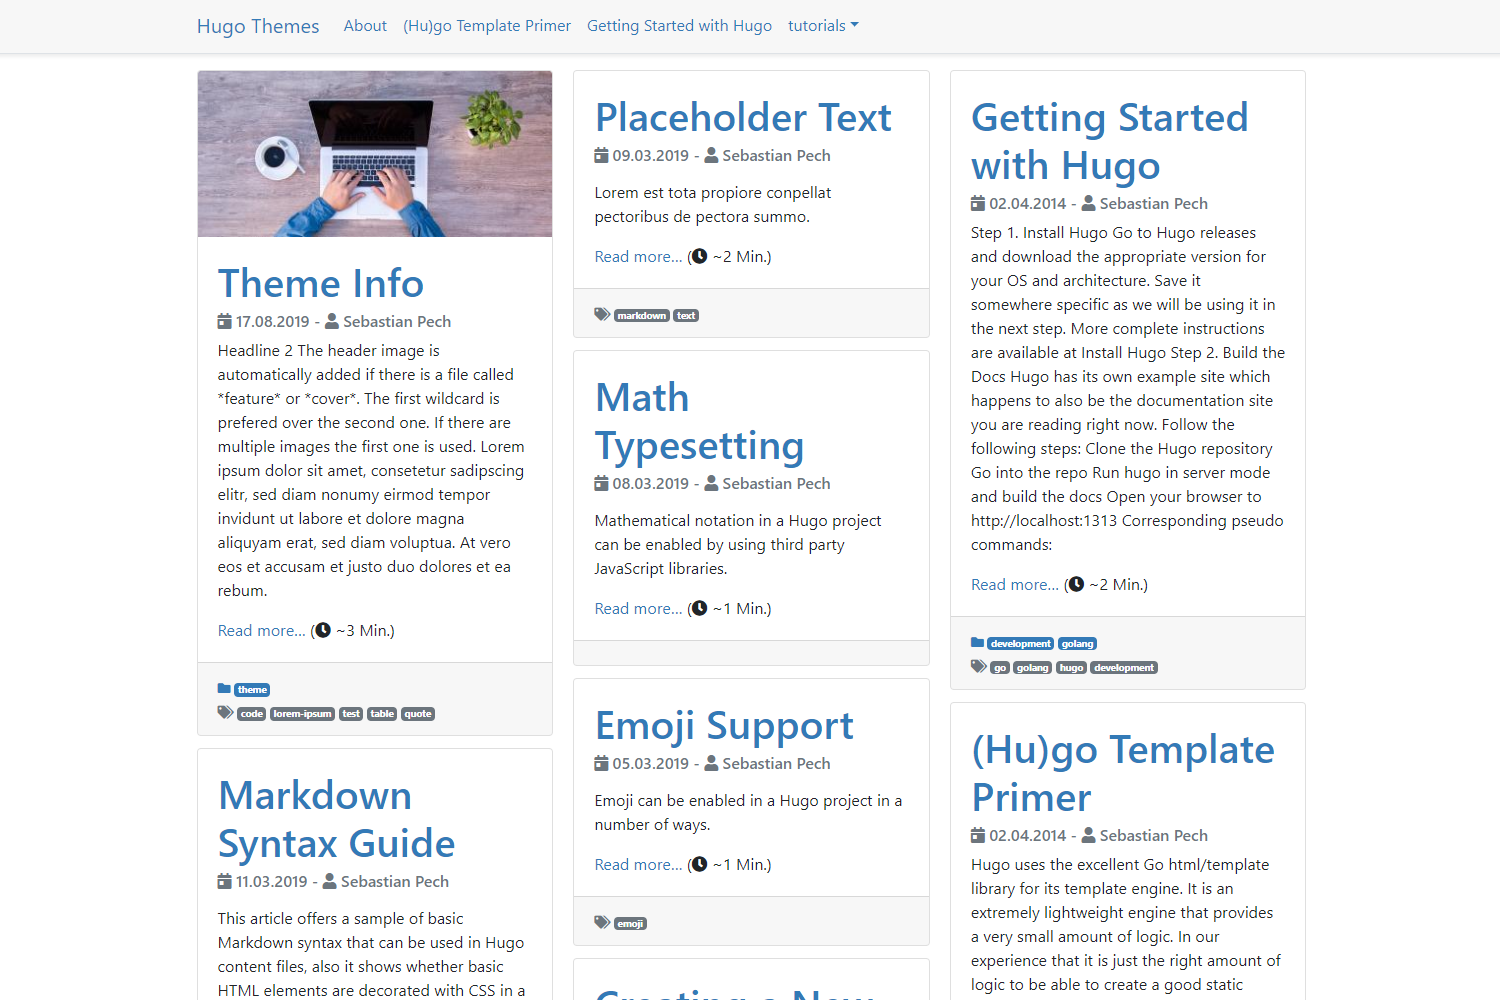
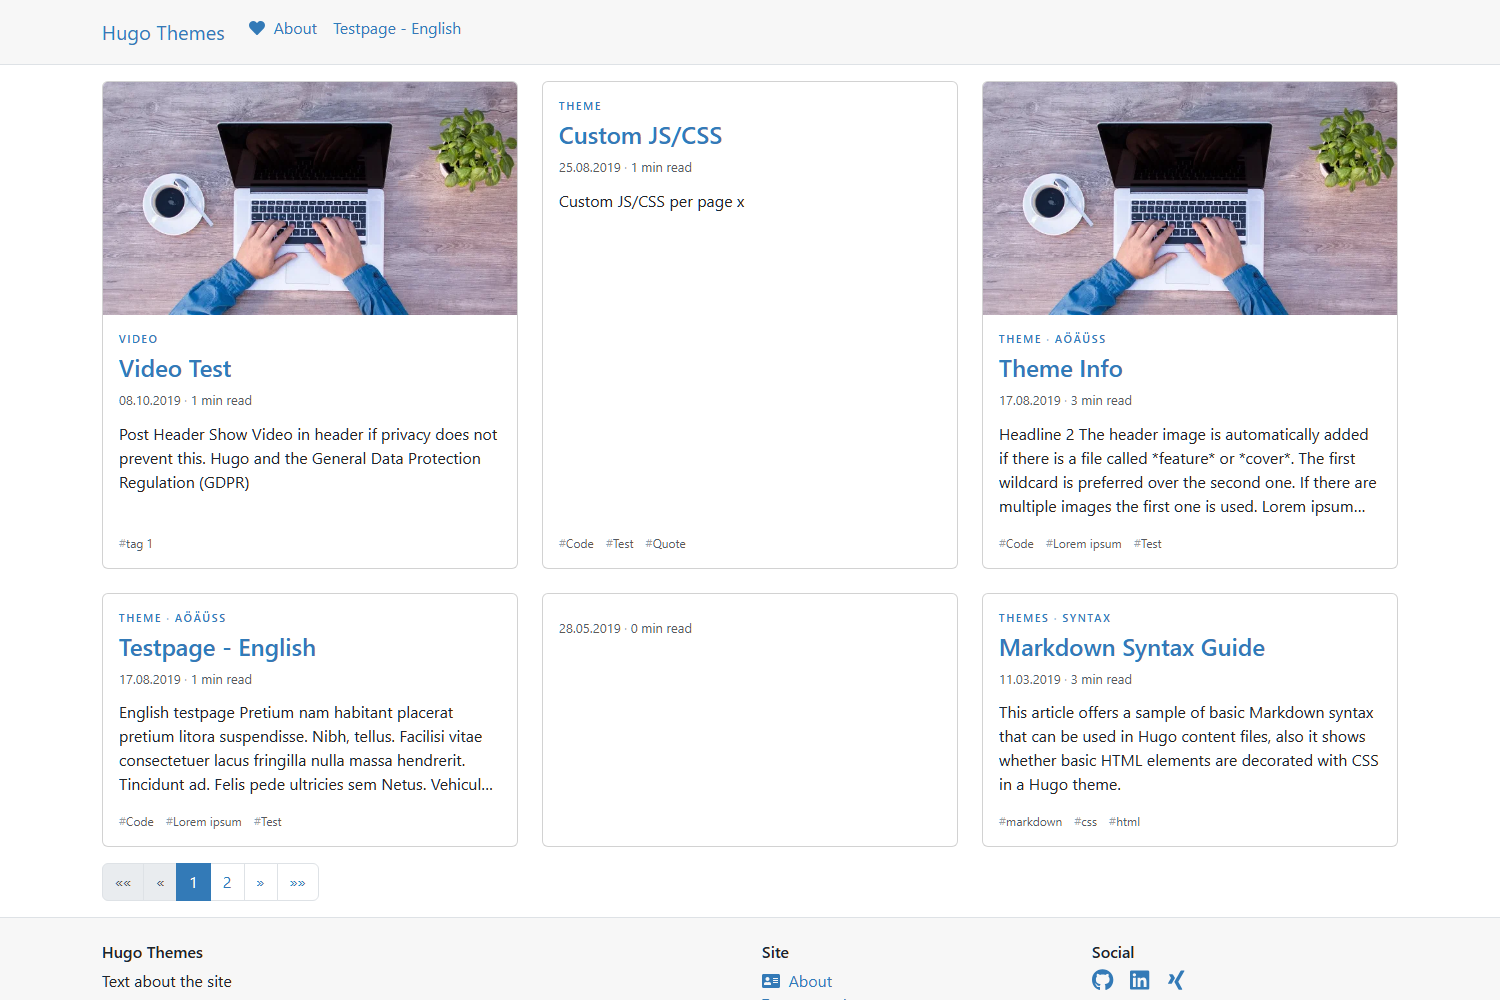
New gallery screenshots, CLAUDE.md with release and tagging notes
- images/: screenshot/tn (default start page) and screenshot2/tn2 (startPageColumns) with the current card design
- CLAUDE.md: tag scheme (Bootstrap version plus fourth number for theme releases), Bootstrap update steps, how to make the screenshots
- theme.toml: Font Awesome tags removed (no longer part of the theme), typo in "syntax highlighting"

diff --git a/CLAUDE.md b/CLAUDE.md
@@ -1,0 +1,66 @@
+# bootstrap-bp-hugo-theme
+
+Open source Hugo theme based on Bootstrap 5 (github.com/spech66/bootstrap-bp-hugo-theme).
+Listed in the Hugo themes gallery, so `theme.toml`, `README.md` and `images/` are public facing.
+
+## Versioning and tags
+
+Tags follow the Bootstrap version the theme ships, plus an optional fourth number for theme releases:
+
+- `vMAJOR.MINOR.PATCH` is the bundled Bootstrap version, e.g. `v5.3.8`.
+- Theme changes on top of an already tagged Bootstrap version get a fourth number, counting up:
+  `v5.3.8.1`, `v5.3.8.2`, ... Check the last one with `git tag -l "v5.3.8*"`.
+- After a Bootstrap update the fourth number starts over: the first tag is the plain Bootstrap
+  version (e.g. `v5.3.9`), later theme releases are `v5.3.9.1`, `v5.3.9.2`, ...
+
+Release steps (always commit and push first, then tag):
+
+```
+git push origin master
+git tag -a v5.3.8.7 -m "Short description of the release"
+git push origin v5.3.8.7
+```
+
+## Updating Bootstrap
+
+Run `update.ps1` (PowerShell, needs npm). It runs `npm update`, copies `bootstrap.bundle.min.js`
+to `assets/js/` and the Bootstrap SCSS to `assets/sass/bootstrap/`, and prints the new version and
+the matching tag commands. Then:
+
+1. Build the example site and check the start page, a post and the dark/light/blue color themes.
+2. Check `assets/sass/_bootstrap-imports.scss` against the new Bootstrap SCSS (new or renamed
+   components), and `assets/js/navigation.js` if collapse or dropdown markup changed.
+3. Commit, push, tag with the plain Bootstrap version (see above).
+
+`node_modules/` and `resources/` are build artifacts, do not commit them.
+
+## Example site
+
+```
+hugo server -s exampleSite --themesDir ../..
+```
+
+(run from the theme folder; the example site expects the theme two folders up).
+
+## Gallery screenshots
+
+The Hugo themes gallery uses `images/screenshot.png` (1500x1000) and `images/tn.png` (900x600).
+`screenshot2.png` and `tn2.png` show the second start page layout and are used in the README.
+
+- `screenshot.png` / `tn.png`: example site with default settings (`startPageColumns = false`).
+- `screenshot2.png` / `tn2.png`: `startPageColumns = true` and `showPostSummary = true`.
+
+For both, set `alwaysExpandMenu = true` and disable YouTube embeds (`[privacy.youtube] disable = true`),
+the demo video does not render in headless browsers. An extra config file passed with
+`--config hugo.toml,shots.toml` keeps `exampleSite/hugo.toml` unchanged. Capture at 1500x1000 with
+device scale factor 1 (screenshots) and 0.6 (thumbnails), e.g. with headless Edge/Chrome
+(`--headless=new --hide-scrollbars --window-size=1500,1000 --screenshot=...`).
+
+## Conventions
+
+- Performance first: no icon font (inline SVG via `partial "icon.html"`, icons in `data/bpicons.json`),
+  no Bootstrap JS bundle by default (`navigation.js`, opt in with `params.bootstrapJS`), only the
+  needed Bootstrap components in `_bootstrap-imports.scss`, images as WebP via `image-webp.html`.
+- Keep site specific features out of the theme. Sites override partials in their own `layouts/`.
+- Document new parameters, partials and shortcodes in `README.md` (and the table of contents there).
+- Keep `min_version` in `theme.toml` in line with the Hugo features used.
